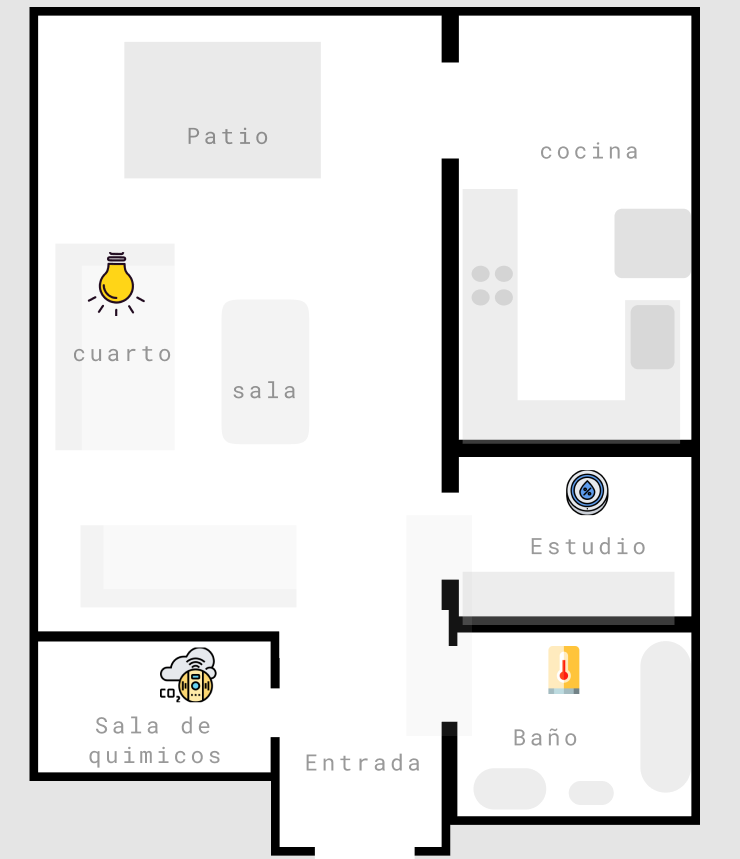
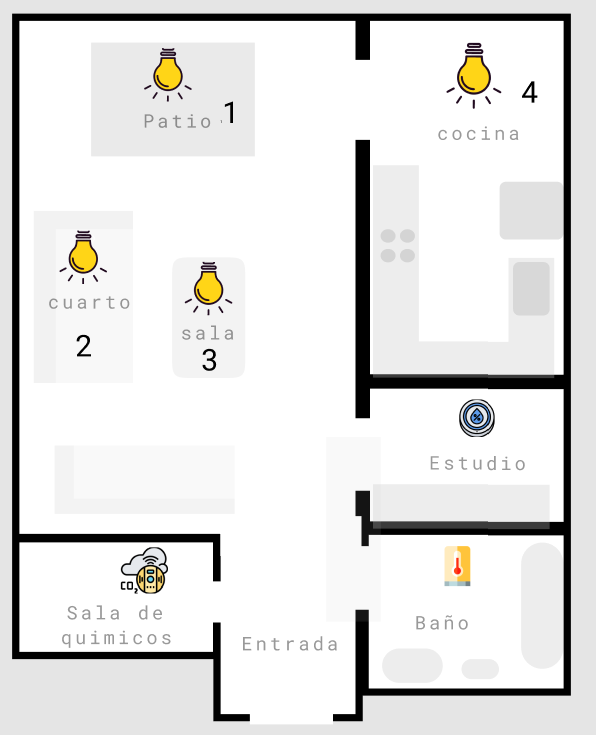
Fondo
Se corrige tamaño de imagen y se modifica

diff --git a/src/modules/home/sensors/Sensors.style.js b/src/modules/home/sensors/Sensors.style.js
@@ -58,7 +58,9 @@ export const StyledContainer3 = styled.div`
 
 export const Fondo = styled.img`
  
-
+position: relative;
+width: 50%;
+height: 50%;
 
 `
 export const Fondo2 = styled.img`
